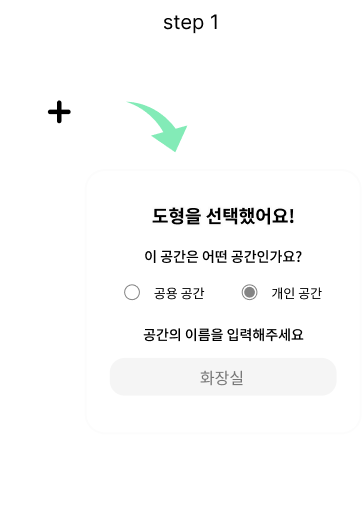
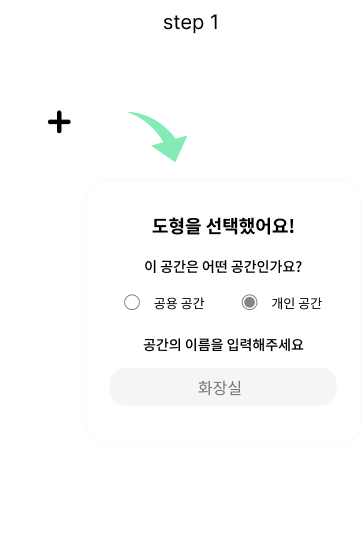
feat: 튜토리얼 페이지 구현

diff --git a/src/pages/CreatePages/TutorialPage.jsx b/src/pages/CreatePages/TutorialPage.jsx
@@ -1,9 +1,7 @@
-import React from "react";
+import React, { useState } from "react";
 import { useNavigate } from "react-router-dom";
 import Header from "../../components/Header";
 import "./TutorialPage.css";
-
-const GRID_SIZE = 10;
 
 const SHAPES = [
   { id: "shape-1x1", w: 1, h: 1 },
@@ -24,7 +22,7 @@ function ShapeButton({ shape, onClick, direction = "vertical" }) {
         width: `${w * 20}%`,
         aspectRatio: `${w} / ${h}`,
       }}
-      onClick={() => onClick && onClick(shape)}
+      onClick={() => onClick?.(shape)}
     >
       +
     </button>
@@ -32,10 +30,22 @@ function ShapeButton({ shape, onClick, direction = "vertical" }) {
 }
 
 const TutorialPage = () => {
+  const [step, setStep] = useState(1);
+  const navigate = useNavigate();
+
+  const handleClick = () => {
+    if (step < 3) {
+      setStep(step + 1);
+    } else {
+      navigate("/createSpace");
+    }
+  };
+
   return (
     <div
       className="create-space-bg"
       style={{ position: "relative", minHeight: "100vh" }}
+      onClick={handleClick}
     >
       {/* 검정 반투명 오버레이 */}
       <div
@@ -50,6 +60,124 @@ const TutorialPage = () => {
           pointerEvents: "none",
         }}
       />
+
+      {/* 튜토리얼 문장 */}
+      <div
+        style={{
+          position: "fixed",
+          top: "9.3%",
+          left: "50%",
+          transform: "translateX(-50%)",
+          zIndex: 1100,
+          pointerEvents: "none",
+          textAlign: "center",
+        }}
+      >
+        <p
+          style={{
+            color: "white",
+            fontSize: "1.5rem",
+            margin: 0,
+            fontFamily: "NotoSansKR-Regular, sans-serif",
+            fontWeight: "500",
+          }}
+        >
+          다음 단계로 넘어가고 싶다면, 화면을 클릭해 주세요!
+        </p>
+      </div>
+
+      {/* 이미지 컨테이너 */}
+      <div
+        style={{
+          position: "fixed",
+          top: "30%",
+          left: "50%",
+          transform: "translateX(-50%)",
+          display: "flex",
+          justifyContent: "space-between",
+          alignItems: "center",
+          width: "90%",
+          // height: "250px",
+          zIndex: 1100,
+          pointerEvents: "none",
+        }}
+      >
+        {/* step1 이미지 */}
+        <div
+          style={{
+            flex: "1",
+            textAlign: "center",
+            height: "100%",
+            display: "flex",
+            alignItems: "center",
+            justifyContent: "center",
+          }}
+        >
+          {step >= 1 && (
+            <img
+              src="/assets/step1.png"
+              alt="Step 1"
+              style={{
+                width: "100%",
+                maxWidth: "230px",
+                height: "auto",
+                objectFit: "contain",
+              }}
+            />
+          )}
+        </div>
+
+        {/* step2 이미지 */}
+        <div
+          style={{
+            flex: "1",
+            textAlign: "center",
+            height: "100%",
+            display: "flex",
+            alignItems: "center",
+            justifyContent: "center",
+          }}
+        >
+          {step >= 2 && (
+            <img
+              src="/assets/step2.png"
+              alt="Step 2"
+              style={{
+                width: "100%",
+                maxWidth: "200px",
+                height: "auto",
+                objectFit: "contain",
+              }}
+            />
+          )}
+        </div>
+
+        {/* step3 이미지 */}
+        <div
+          style={{
+            flex: "1",
+            textAlign: "center",
+            height: "100%",
+            display: "flex",
+            alignItems: "center",
+            justifyContent: "center",
+          }}
+        >
+          {step >= 3 && (
+            <img
+              src="/assets/step3.png"
+              alt="Step 3"
+              style={{
+                width: "100%",
+                maxWidth: "215px",
+                height: "auto",
+                objectFit: "contain",
+              }}
+            />
+          )}
+        </div>
+      </div>
+
       <Header hideMenu />
       <div className="create-space-content">
         <div className="grid-panel">
@@ -58,12 +186,12 @@ const TutorialPage = () => {
               className="grid"
               style={{
                 display: "grid",
-                gridTemplateColumns: `repeat(${GRID_SIZE}, 1fr)`,
-                gridTemplateRows: `repeat(${GRID_SIZE}, 1fr)`,
+                gridTemplateColumns: "repeat(10, 1fr)",
+                gridTemplateRows: "repeat(10, 1fr)",
                 gap: "0.8px",
               }}
             >
-              {[...Array(GRID_SIZE * GRID_SIZE)].map((_, idx) => (
+              {[...Array(100)].map((_, idx) => (
                 <div key={idx} className="grid-cell" />
               ))}
             </div>

diff --git a/src/pages/CreatePages/NoGroupPage.jsx b/src/pages/CreatePages/NoGroupPage.jsx
@@ -10,7 +10,7 @@ function NoGroupPage() {
 
   return (
     <>
-      <Header />
+      <Header hideMenu />
       <main
         style={{
           backgroundColor: "#EEEEEE",
